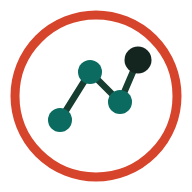
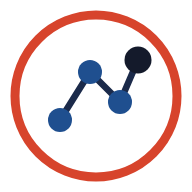
v2.5: navy/blue/red palette, hidden pause control, eyebrow copy, OG image
Claude-Session: https://claude.ai/code/session_01W6ZHV3nsTJr6aZ4MehpJvn

Changed region(s): [[0.25, 0.3125, 0.7188, 0.6875]]

diff --git a/qa/og.html b/qa/og.html
@@ -1,16 +1,16 @@
 <!doctype html><html><head><meta charset="utf-8"><style>
-body{margin:0;width:1200px;height:630px;background:#F7F6F2;font-family:system-ui,-apple-system,"Segoe UI",sans-serif;color:#14251F;position:relative;overflow:hidden}
+body{margin:0;width:1200px;height:630px;background:#F7F7F4;font-family:system-ui,-apple-system,"Segoe UI",sans-serif;color:#141A2B;position:relative;overflow:hidden}
 .wrap{position:absolute;left:80px;top:90px;width:680px}
-.eyebrow{font-size:20px;letter-spacing:.14em;text-transform:uppercase;font-weight:600;color:#0B6B60}
+.eyebrow{font-size:20px;letter-spacing:.14em;text-transform:uppercase;font-weight:600;color:#1F4F8F}
 h1{font-family:Georgia,Cambria,"Times New Roman",serif;font-weight:400;font-size:76px;line-height:1.06;margin:24px 0 28px}
-p{font-size:26px;line-height:1.4;color:#46574F;margin:0}
+p{font-size:26px;line-height:1.4;color:#4A5468;margin:0}
 .brand{position:absolute;left:80px;bottom:70px;font-family:Georgia,serif;font-size:30px;display:flex;align-items:center;gap:12px}
-.dot{width:14px;height:14px;border-radius:50%;background:#0B6B60;box-shadow:0 0 0 4px #E7EFE8}
+.dot{width:14px;height:14px;border-radius:50%;background:#1F4F8F;box-shadow:0 0 0 4px #E9EDF4}
 svg{position:absolute;right:40px;top:40px;width:560px;height:560px}
 </style></head><body>
 <div class="wrap"><div class="eyebrow">Enterprise AI consulting</div>
-<h1>Modernize critical systems. Put AI to work.</h1>
-<p>AI strategy, legacy modernization, digital twins and evaluation, deployment, and governance.</p></div>
+<h1>94% use AI. 2% run it at scale.</h1>
+<p>Legacy migration, digital twins and evaluation, deployment, and governance — for commercial and federal technology leaders.</p></div>
 <div class="brand"><span class="dot"></span>Savant Analytics</div>
-<svg viewBox="0 0 600 600"><circle cx="310" cy="300" r="180" fill="none" stroke="#173D31" stroke-width="1.5" opacity=".55"/><circle cx="285" cy="310" r="125" fill="none" stroke="#0B6B60" stroke-width="2.5" opacity=".5"/><circle cx="335" cy="280" r="72" fill="none" stroke="#173D31" stroke-width="1" opacity=".7"/><g stroke="#173D31" stroke-width="1" opacity=".28"><line x1="320" y1="295" x2="407" y2="280"/><line x1="320" y1="295" x2="160" y2="310"/><line x1="407" y1="280" x2="470" y2="195"/></g><circle cx="407" cy="280" r="5" fill="#173D31" opacity=".8"/><circle cx="470" cy="195" r="7" fill="#D7A56F"/><circle cx="130" cy="300" r="4" fill="#0B6B60"/><circle cx="310" cy="120" r="7" fill="#173D31"/><circle cx="465.9" cy="390" r="5" fill="#173D31" opacity=".8"/><circle cx="154.1" cy="390" r="5" fill="#0B6B60" opacity=".8"/><circle cx="410" cy="310" r="5.5" fill="#0B6B60"/><circle cx="222.5" cy="201.8" r="4" fill="#173D31" opacity=".75"/><circle cx="222.5" cy="418.2" r="4" fill="#0B6B60" opacity=".75"/><circle cx="320" cy="295" r="30" fill="#E7EFE8"/><circle cx="320" cy="295" r="16" fill="#173D31"/></svg>
+<svg viewBox="0 0 600 600"><circle cx="310" cy="300" r="180" fill="none" stroke="#1B2A4A" stroke-width="1.5" opacity=".55"/><circle cx="285" cy="310" r="125" fill="none" stroke="#1F4F8F" stroke-width="2.5" opacity=".5"/><circle cx="335" cy="280" r="72" fill="none" stroke="#1B2A4A" stroke-width="1" opacity=".7"/><g stroke="#1B2A4A" stroke-width="1" opacity=".28"><line x1="320" y1="295" x2="407" y2="280"/><line x1="320" y1="295" x2="160" y2="310"/><line x1="407" y1="280" x2="470" y2="195"/></g><circle cx="407" cy="280" r="5" fill="#1B2A4A" opacity=".8"/><circle cx="470" cy="195" r="7" fill="#D7442C"/><circle cx="130" cy="300" r="4" fill="#1F4F8F"/><circle cx="310" cy="120" r="7" fill="#1B2A4A"/><circle cx="465.9" cy="390" r="5" fill="#1B2A4A" opacity=".8"/><circle cx="154.1" cy="390" r="5" fill="#1F4F8F" opacity=".8"/><circle cx="410" cy="310" r="5.5" fill="#1F4F8F"/><circle cx="222.5" cy="201.8" r="4" fill="#1B2A4A" opacity=".75"/><circle cx="222.5" cy="418.2" r="4" fill="#1F4F8F" opacity=".75"/><circle cx="320" cy="295" r="30" fill="#E9EDF4"/><circle cx="320" cy="295" r="16" fill="#1B2A4A"/></svg>
 </body></html>

diff --git a/src/styles/global.css b/src/styles/global.css
@@ -5,22 +5,22 @@
 
 :root {
   /* Color */
-  --color-canvas: #f7f6f2;
+  --color-canvas: #f7f7f4;
   --color-surface: #ffffff;
-  --color-ink: #14251f;
-  --color-ink-2: #46574f;
-  --color-green: #173d31;
-  --color-teal: #0b6b60;
-  --color-pale: #e7efe8;
-  --color-border: #d3ddd5; /* decorative only */
-  --color-border-strong: #6f8077; /* ≥3:1 on canvas; use for control boundaries */
+  --color-ink: #141a2b;
+  --color-ink-2: #4a5468;
+  --color-green: #1b2a4a; /* primary navy (token name kept for stability) */
+  --color-teal: #1f4f8f; /* secondary blue (token name kept) */
+  --color-pale: #e9edf4;
+  --color-border: #d6dbe5; /* decorative only */
+  --color-border-strong: #6c768c; /* ≥3:1 on canvas; use for control boundaries */
   --color-accent: #d7a56f; /* warm accent, decorative, never small text */
   --color-sharp: #bf3620; /* text-safe version of the logo red (≥4.5:1 on canvas and white); logo keeps #D7442C */
   --color-error: #9b2c1f;
   --color-error-bg: #fbeeec;
-  --color-success-bg: #e4f1ea;
-  --color-on-dark: #f7f6f2;
-  --color-on-dark-muted: #c9d6cf;
+  --color-success-bg: #e6f1ec;
+  --color-on-dark: #f7f7f4;
+  --color-on-dark-muted: #c3cbdc;
 
   /* Type */
   --font-serif: Georgia, Cambria, 'Times New Roman', serif;
@@ -392,7 +392,7 @@ h4 {
   position: sticky;
   top: 0;
   z-index: 50;
-  background: color-mix(in srgb, var(--color-canvas) 92%, transparent);
+  background: color-mix(in srgb, var(--color-canvas) 94%, transparent);
   backdrop-filter: saturate(150%) blur(8px);
   border-bottom: 1px solid var(--color-border);
 }
@@ -553,6 +553,12 @@ h4 {
   aspect-ratio: 1 / 1;
 }
 .hero-art__toggle {
+  position: absolute !important;
+  width: 1px;
+  height: 1px;
+  overflow: hidden;
+  clip: rect(0 0 0 0);
+  white-space: nowrap;
   min-height: 44px;
   padding: var(--s-2) var(--s-3);
   background: color-mix(in srgb, var(--color-canvas) 85%, transparent);
@@ -1206,8 +1212,8 @@ h4 {
 /* ---------- Colour pass (v2.3) ---------- */
 .hero {
   background:
-    radial-gradient(60rem 30rem at 85% -10%, rgba(11, 107, 96, 0.14), transparent 60%),
-    radial-gradient(40rem 24rem at 0% 110%, rgba(215, 165, 111, 0.22), transparent 60%),
+    radial-gradient(60rem 30rem at 85% -10%, rgba(27, 42, 74, 0.12), transparent 60%),
+    radial-gradient(40rem 24rem at 0% 110%, rgba(215, 68, 44, 0.12), transparent 60%),
     var(--color-canvas);
 }
 .hero__em {
@@ -1382,3 +1388,23 @@ h4 {
   background: var(--color-sharp);
   color: #fff;
 }
+
+/* Pause control: hidden visually, revealed on keyboard focus (WCAG 2.2.2) */
+.hero-art__toggle:focus-visible {
+  position: static !important;
+  width: auto;
+  height: auto;
+  clip: auto;
+  overflow: visible;
+  margin-top: var(--s-3);
+}
+/* Navy palette: links */
+a { color: #1f4f8f; }
+a:hover { color: var(--color-green); }
+.link-arrow { color: #1f4f8f; }
+.eyebrow { color: #1f4f8f; }
+.do-list__title:hover { color: #1f4f8f; }
+.nav__link:hover { color: #1f4f8f; }
+.btn--primary:hover { background: var(--color-sharp); }
+.card--lead .eyebrow, .specialty--1 .eyebrow { color: #f0b4a6; }
+.wordmark__mark { width: 30px; height: 30px; }

diff --git a/src/components/HeroArt.tsx b/src/components/HeroArt.tsx
@@ -14,7 +14,7 @@ const STORAGE_KEY = 'sa-hero-animation';
  * hidden; honors prefers-reduced-motion; visitor pause control.
  */
 
-const INK = '#173D31';
+const INK = '#1B2A4A';
 const C = { x: 300, y: 300 };
 const RADIUS = 178;
 const ICON_R = 34;
@@ -145,7 +145,7 @@ export default function HeroArt() {
                   ))}
                 </g>
                 <g className="done" style={{ '--d': `${d + 1.25}s`, transformOrigin: `${x + 30}px ${y - 30}px` } as CSSProperties}>
-                  <circle cx={x + 30} cy={y - 30} r="10" fill="#D7A56F" stroke="none" />
+                  <circle cx={x + 30} cy={y - 30} r="10" fill="#D7442C" stroke="none" />
                   <path d={`M${x + 25.5} ${y - 30} l3 3 l6 -6.5`} strokeWidth="2.2" />
                 </g>
               </g>

diff --git a/src/content/home.ts b/src/content/home.ts
@@ -7,7 +7,7 @@ import type { ServiceId } from './types';
  */
 
 export const homeHero = {
-  eyebrow: 'For mid-market and federal technology leaders',
+  eyebrow: 'For commercial and federal technology leaders',
   /** "\n" marks deliberate line breaks. The <em> span is highlighted. */
   headline: '94% use AI.\n<em>2%</em> run it at scale.',
   lines: ['The gap is not the model. It is legacy systems and data that are not ready.', 'We fix that — with your team, under your controls.'],

diff --git a/index.html b/index.html
@@ -3,7 +3,7 @@
   <head>
     <meta charset="UTF-8" />
     <meta name="viewport" content="width=device-width, initial-scale=1" />
-    <meta name="theme-color" content="#F7F6F2" />
+    <meta name="theme-color" content="#F7F7F4" />
     <link rel="icon" href="/favicon.ico" sizes="32x32" />
     <link rel="icon" href="/favicon.svg" type="image/svg+xml" />
     <link rel="apple-touch-icon" href="/apple-touch-icon.png" />

diff --git a/docs/LAUNCH-REPORT.md b/docs/LAUNCH-REPORT.md
@@ -66,6 +66,8 @@ form is intentionally in preview mode until the owner decisions below are resolv
 
 ## Changelog
 
+- **2026-11-04 v2.5** — Palette: navy primary (#1B2A4A) replaces green; secondary blue (#1F4F8F) replaces teal; logo red (#D7442C / text #BF3620) as the sharp accent. Logo Option A1 (red circle, blue connected dots, black end dot). Pause-animation control hidden visually, revealed on keyboard focus. Eyebrow: "For commercial and federal technology leaders". OG image regenerated.
+
 - **2026-11-04 v2.4** — New logo mark (line-chart tile, in the family of the existing Savant logo) in the header; full favicon set (.ico, SVG, PNG 32/192/512, Apple touch icon, web manifest). Sharp accent (logo red) used sparingly: highlighted stat, evidence numerals (light tint on green), list numerals, Specialty 02 outline, CTA hover, active nav underline.
 
 - **2026-11-04 v2.3** — Research-led hook: "94% use AI. 2% run it at scale." (Kaufman Rossin 2026) with a cited evidence strip (RSM 2026, Kaufman Rossin 2026, Gartner). New "Where we are deepest" section: Legacy migration + Digital twins and evaluation. Colour pass: hero gradient, highlighted stat, dark evidence band, coloured specialty cards, accent numerals. Layout otherwise unchanged.

diff --git a/docs/DECISIONS.md b/docs/DECISIONS.md
@@ -44,3 +44,4 @@ Dated 1 November 2026. "Status" is **Blocking** (launch gate) or **Optional**.
 - **2026-11-01 v1.2** — Audience-targeted homepage in short-line register (D-08 resolved; D-12 added).
 | I-14 | v1.3 hero: a four-column board (Backlog → AI agents → Your review → Production). Work items move through, agents show a working arc, a check pops at the review gate, finished items stack in Production. Answers the buyer's pain (pilots that never ship; nobody owns the risk) and shows human review in the loop. Transform/opacity only; reduced-motion shows one item per column. | Owner direction 1 Nov: practical, addresses the challenge. |
 - **2026-11-01 v1.3** — Hero rewritten around the buyer's gap (mandate vs legacy system); board animation; audience-cards section removed; "Why a small team" added (senior people, no bench — owner-stated). D-12 now covers all five why-us lines.
+| I-15 | v2.5 palette: navy/blue/red replaces the brief's green/teal/amber tokens after owner review ("green doesn't go well"). Token names unchanged (`--color-green`, `--color-teal`) so components did not change; values did. Contrast re-verified ≥4.5:1 for text, ≥3:1 UI. | Owner direction 4 Nov. |
